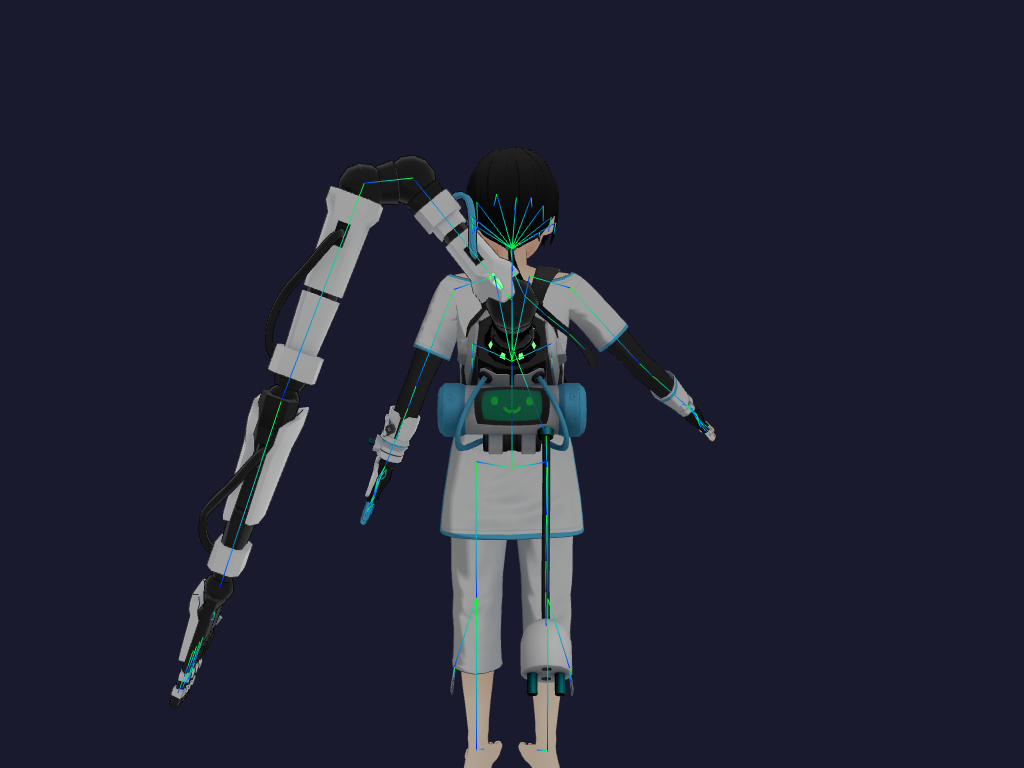
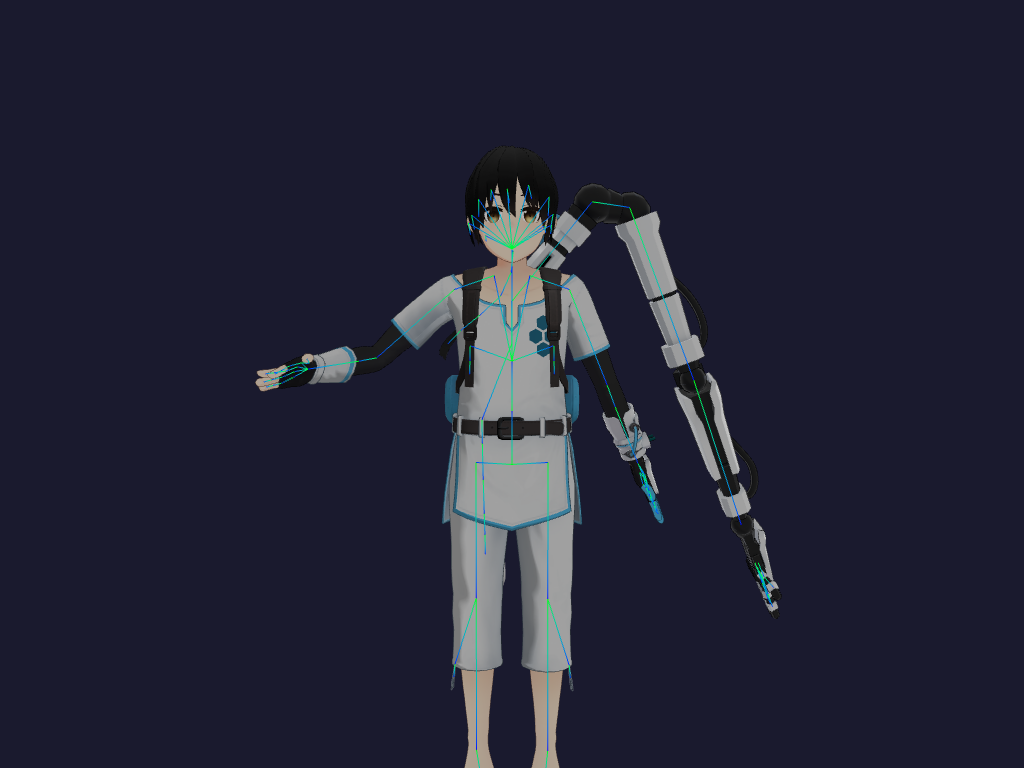
Fix smoking motion support arm - use explicit fixed position

Changed region(s): [[0.1562, 0.1875, 0.7812, 0.9062], [0.4375, 0.9688, 0.5312, 1.0], [0.4375, 0.8125, 0.4688, 0.9062]]

diff --git a/packages/motion-dsl/src/motions/smoking-cigarette.ts b/packages/motion-dsl/src/motions/smoking-cigarette.ts
@@ -511,24 +511,21 @@ export function createSmokingCigarette(params: SmokingCigaretteInput = {}): Moti
       // So support arm down = -handSide * 1.2
       const supportArmDown = -handSide * 1.2
 
-      if (smokingStyle === 'seductive') {
-        // Arm crossed under (one arm supporting the other)
-        if (rig.hasBone(supportUpperArm)) {
-          const supportRot = quatFromAxisAngle({ x: 0, y: 0, z: 1 }, supportArmDown * 0.6)  // Partial down, arm crosses
-          supportRot.multiply(quatFromAxisAngle({ x: 1, y: 0, z: 0 }, 0.4 * intensity))
-          rig.setRotation(supportUpperArm, supportRot)
-        }
-        if (rig.hasBone(supportLowerArm)) {
-          rig.setRotation(supportLowerArm, quatFromAxisAngle({ x: 0, y: 1, z: 0 }, -handSide * 1.2 * intensity))
-        }
-      } else {
-        // Relaxed at side
-        if (rig.hasBone(supportUpperArm)) {
-          rig.setRotation(supportUpperArm, quatFromAxisAngle({ x: 0, y: 0, z: 1 }, supportArmDown))
-        }
-        if (rig.hasBone(supportLowerArm)) {
-          rig.setRotation(supportLowerArm, quatFromAxisAngle({ x: 0, y: 1, z: 0 }, -handSide * 0.15))
-        }
+      // Support arm - ALWAYS relaxed at side, no movement
+      // Use explicit bone names to ensure correct arm is targeted
+      const supportArmIsLeft = supportArm === 'left'
+
+      if (rig.hasBone(supportUpperArm)) {
+        // Fixed relaxed position - arm hangs down with slight outward angle
+        const armDownZ = supportArmIsLeft ? -1.2 : 1.2  // Correct sign for each side
+        const supportUpperRot = quatFromAxisAngle({ x: 0, y: 0, z: 1 }, armDownZ)
+        supportUpperRot.multiply(quatFromAxisAngle({ x: 1, y: 0, z: 0 }, 0.05))  // Tiny forward lean
+        rig.setRotation(supportUpperArm, supportUpperRot)
+      }
+      if (rig.hasBone(supportLowerArm)) {
+        // Slight elbow bend for natural look
+        const elbowBendY = supportArmIsLeft ? 0.15 : -0.15
+        rig.setRotation(supportLowerArm, quatFromAxisAngle({ x: 0, y: 1, z: 0 }, elbowBendY))
       }
 
       // Relaxed fingers on support hand
@@ -565,13 +562,15 @@ export function createSmokingCigarette(params: SmokingCigaretteInput = {}): Moti
         rig.setRotation('upperChest', quatFromAxisAngle({ x: 1, y: 0, z: 0 }, -smoothChest * 1.5))
       }
 
-      // Shoulders rise during inhale (delayed 0.1s / ~1% of cycle)
+      // Shoulders rise during inhale - use setRotation not addRotation to avoid accumulation
       const shoulderRise = inhaleEnv * 0.02 * inhaleDepth
-      if (rig.hasBone('leftShoulder')) {
-        rig.addRotation('leftShoulder', quatFromAxisAngle({ x: 0, y: 0, z: 1 }, -shoulderRise))
-      }
+      // Only animate the smoking arm's shoulder, keep support shoulder stable
       if (rig.hasBone('rightShoulder')) {
-        rig.addRotation('rightShoulder', quatFromAxisAngle({ x: 0, y: 0, z: 1 }, shoulderRise))
+        rig.setRotation('rightShoulder', quatFromAxisAngle({ x: 0, y: 0, z: 1 }, shoulderRise))
+      }
+      // Support shoulder stays still
+      if (rig.hasBone('leftShoulder')) {
+        rig.setRotation('leftShoulder', quatFromAxisAngle({ x: 0, y: 0, z: 1 }, 0))
       }
 
       // ========================================
